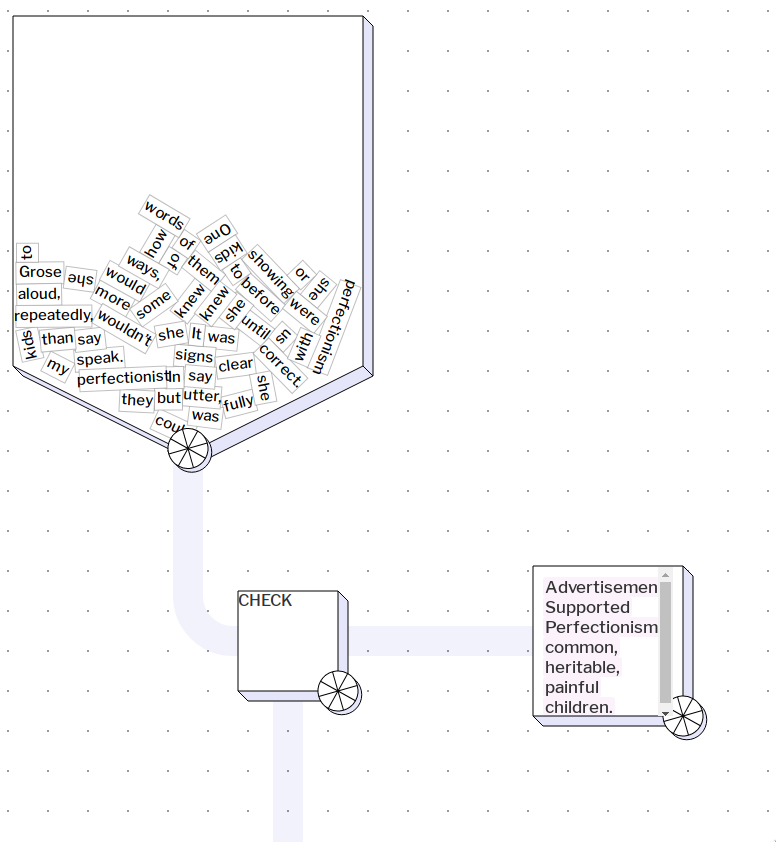
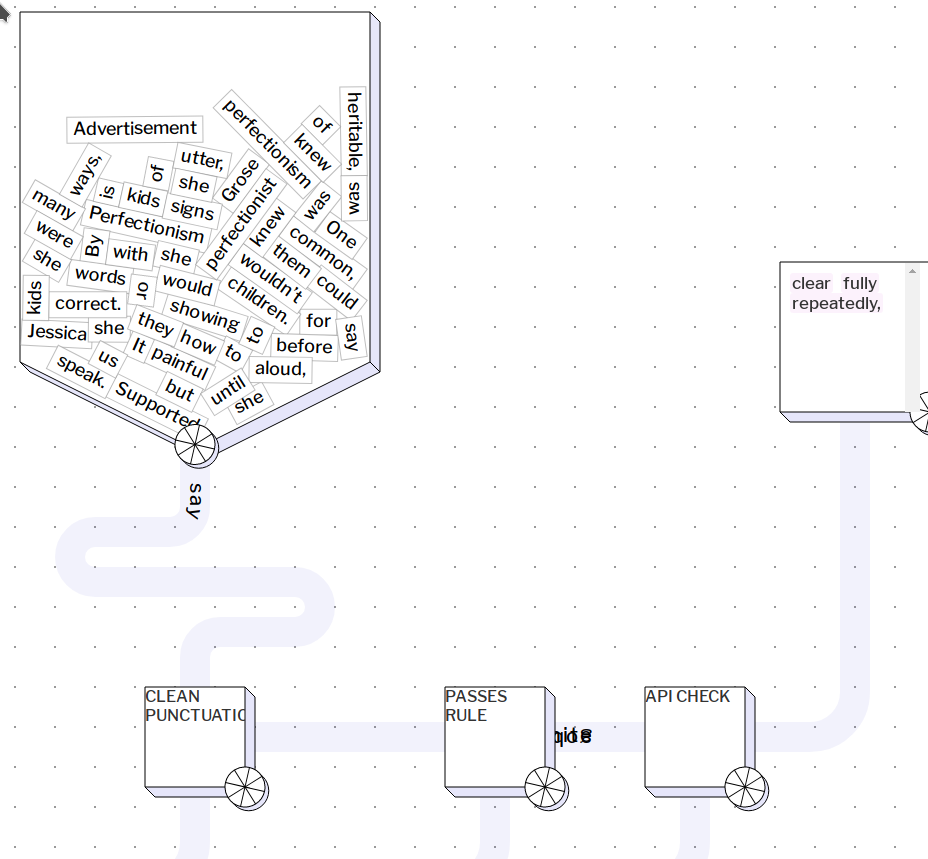
[snapshot]

diff --git a/index.tsx b/index.tsx
@@ -57,20 +57,36 @@ Advertisement
 ;`;
 let words = text.split(/(\s+)/).filter(w => w.trim().length > 0);
 
-let p1 = new Two.Vector(200, 200);
-let p2 = new Two.Vector(300, 650);
-let p3 = new Two.Vector(620, 650);
-let p4 = new Two.Vector(300, 950);
-let c1 = makeConnector(p1, p2, "1", true);
-let c2 = makeConnector(p2, p3, "2", true);
-let c3 = makeConnector(p2, p4, "3");
+let pHopper = new Two.Vector(200, 200);
+let pClean = new Two.Vector(200, 750);
+let pRule = new Two.Vector(500, 750);
+let pCheck = new Two.Vector(700, 750);
+let pDestination = new Two.Vector(860, 350);
+let pTrash = new Two.Vector(0, 900);
 
-let b1 = makeHopper(p1, 350, "a");
-let b2 = makeBox(p2, 100, "b");
-let b3 = makeBox(p3, 150, "c");
+let p6 = new Two.Vector(300, 1050);
+
+let c1 = makeConnector(pHopper, pClean, "1", true, true);
+let c2 = makeConnector(pClean, pRule, "2", true);
+let c3 = makeConnector(pRule, pCheck, "3");
+let c4 = makeConnector(pCheck, pDestination, "3");
+
+let c5 = makeConnector(pClean, pTrash, "3", true);
+let c6 = makeConnector(pRule, pTrash, "4", true);
+let c7 = makeConnector(pCheck, pTrash, "5", true);
+
+let boxHopper = makeHopper(pHopper, 350, "a");
+let boxClean = makeBox(pClean, 100, "b");
+boxClean.setText("CLEAN PUNCTUATION");
+let boxRule = makeBox(pRule, 100, "c");
+boxRule.setText("PASSES RULE");
+let boxCheck = makeBox(pCheck, 100, "d");
+boxCheck.setText("API CHECK");
+
+let boxDestination = makeBox(pDestination, 150, "e");
 // let connections = [c1, c2];
 
-let { addWord, removeWord } = startPhysics(b1);
+let { addWord, removeWord } = startPhysics(boxHopper);
 
 words.slice(0, 65).map(addWord);
 
@@ -79,17 +95,13 @@ function formatWords(words: Array<string>) {
     .map(w => `<span class="word-span">${w}</span>&nbsp;`)
     .join(" ")}</p>`;
 }
-// b1.setText(formatWords(words));
-
-b2.setText("CHECK");
-// b3.setText(" ");
 
 let destinationWords: Array<string> = [];
 
-function moveWord() {
+function moveWord(): Promise<void> {
   let wordToMove = removeWord();
 
-  // b1.setText(formatWords(words));
+  // boxHopper.setText(formatWords(words));
 
   return c1
     .sendWord(wordToMove)
@@ -97,7 +109,7 @@ function moveWord() {
       if (wordToMove.length > 4) {
         return c2.sendWord(wordToMove).then(() => {
           destinationWords.push(wordToMove);
-          b3.setText(formatWords(destinationWords));
+          boxDestination.setText(formatWords(destinationWords));
         });
       } else {
         return c3.sendWord(wordToMove);
@@ -107,31 +119,5 @@ function moveWord() {
     .then(moveWord);
 }
 moveWord();
-makeGradient(p4.x, p4.y, 200);
-// let half = new Two.Vector(100, 100);
-
-// let size = 200;
-// let points = [
-//   new Two.Vector(Math.random() * two.width, Math.random() * two.height)
-// ];
-// for (let i = 0; i < 3; i++) {
-//   let p2 = points[points.length - 1];
-
-//   let p = new Two.Vector(
-//     size + Math.random() * (two.width - size * 3),
-//     size + Math.random() * (two.height - size * 3)
-//   );
-
-//   points.push(p);
-//   let id = "curve" + i;
-
-//   makeConnector(Two.Vector.add(p, half), Two.Vector.add(p2, half), id);
-//   makeBox(p, 100, i.toString());
-//   // makeBox(p2, 100, (i + 1).toString());
-// }
-
-// points.forEach((p, i) => {
-//   // makeBox(p, 100, i.toString());
-// });
 
 two.bind("update", function(frameCount) {}).play(); // Finally, start the animation loop

diff --git a/src/render.tsx b/src/render.tsx
@@ -113,8 +113,8 @@ function makeHopper(pos, size: number, id: string) {
 
       //   console.log(word);
 
-      //   morph(htmlContent, newHTML);
-      htmlContent.innerHTML = word;
+      morph(htmlContent, newHTML);
+      //   htmlContent.innerHTML = word;
     }
   };
 }
@@ -212,8 +212,8 @@ function makeBox(pos, size: number, id: string) {
 
       //   console.log(word);
 
-      //   morph(htmlContent, newHTML);
-      htmlContent.innerHTML = word;
+      morph(htmlContent, newHTML);
+      //   htmlContent.innerHTML = word;
     }
   };
 }
@@ -224,7 +224,7 @@ function makePath(a, b) {
   two.makeLine(mid.x, mid.y, b.x, b.y);
 }
 
-function makeConnector(p1, p2, id, flip = false) {
+function makeConnector(p1, p2, id, flip = false, wiggly = false) {
   let two = window.two;
   // let path = makePath(p1, p2);
 
@@ -264,13 +264,34 @@ function makeConnector(p1, p2, id, flip = false) {
       .reverse()
       .join("");
   }
+
+  let wiggle = "";
+  if (wiggly) {
+    wiggle = `
+    l 0 320
+              
+    a 25 25, 0, 0, 1, -25, 25
+    l -75 0
+    a 25 25, 0, 0, 0, -25, 25
+    l 0 0
+    a 25 25, 0, 0, 0, 25, 25
+    l 200 0
+    a 25 25, 0, 0, 1, 25, 25
+    l 0 0
+    a 25 25, 0, 0, 1, -25, 25
+    l -75 0
+    a 25 25, 0, 0, 0, -25, 25
+    `;
+  }
   const htmlString = ReactDOMServer.renderToStaticMarkup(
     <React.Fragment>
       <path
         className="textpath"
         id={id}
         d={`M ${p1.x} ${p1.y}
-  L  ${pM.x - rx * xFirst} ${pM.y - ry * yFirst}
+        ${wiggle}
+
+        L  ${pM.x - rx * xFirst} ${pM.y - ry * yFirst}
   A 45, 45, 0, 0, ${sweep}, ${pM.x - rx * yFirst} ${pM.y - ry * xFirst}
   L  ${p2.x} ${p2.y}
   `}
@@ -329,7 +350,7 @@ function makeConnector(p1, p2, id, flip = false) {
           if (!textPath) {
             throw new Error("no path");
           }
-          offset += 5;
+          offset += 2;
           textPath.setAttribute("startOffset", `${offset}px`);
           if (offset < pathLength) {
             window.requestAnimationFrame(updateOffset);

diff --git a/src/physics.ts b/src/physics.ts
@@ -14,7 +14,7 @@ let engine = Engine.create({
 });
 
 let scratchSvg = document.getElementById("scratch");
-const textStyle = `font-size: 15px; alignment-baseline: middle; text-anchor: middle;`;
+const textStyle = `font-size: 18px; alignment-baseline: middle; text-anchor: middle;`;
 function renderedTextSize(string: string) {
   scratchSvg.innerHTML = `<text id="scratchText" style="${textStyle}">${string}</text>`;
   let scratchText = document.getElementById("scratchText");

diff --git a/main.css b/main.css
@@ -11,7 +11,7 @@ body {
 
 text {
   fill: black;
-  font-size: 30px;
+  font-size: 20px;
 }
 svg {
   width: 100%;
